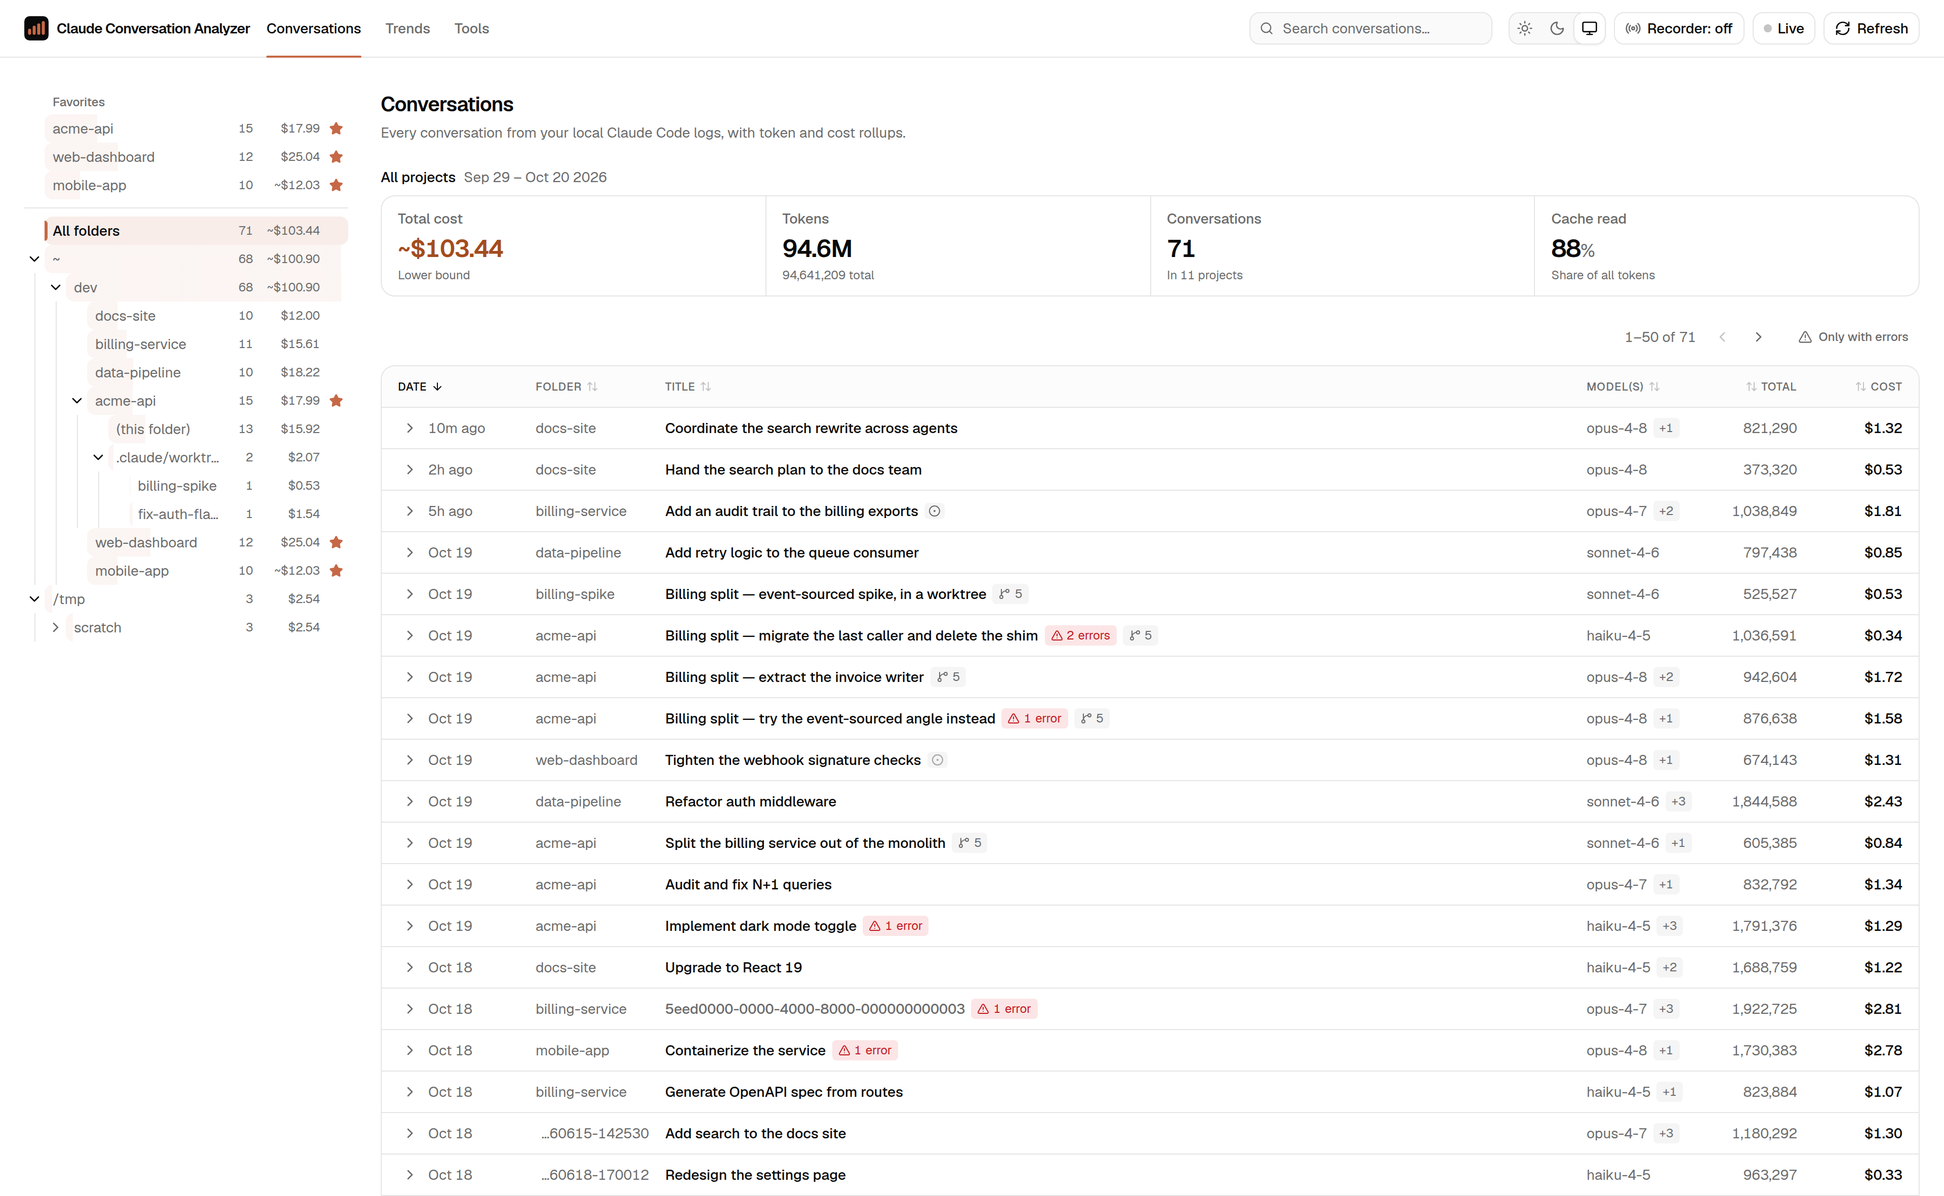
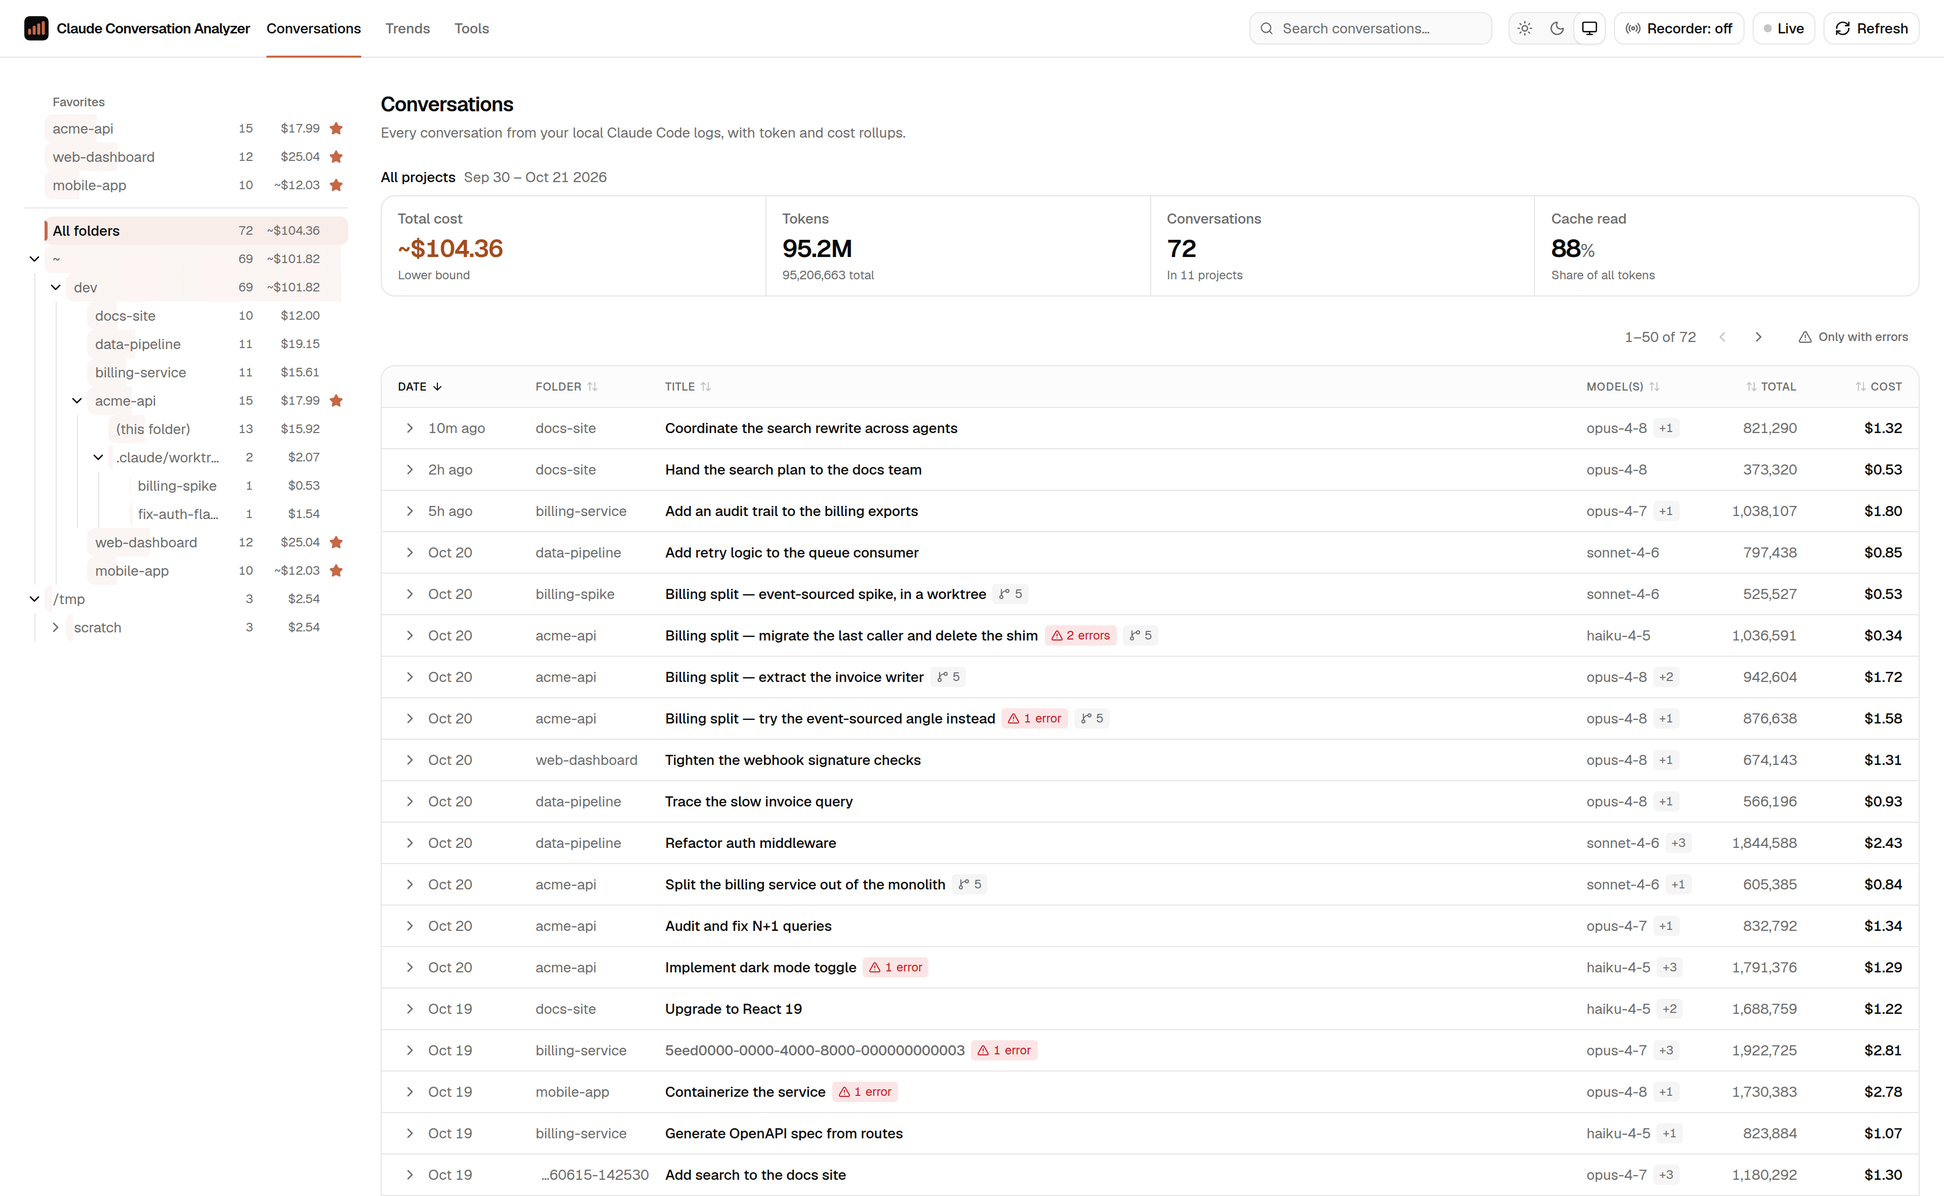
docs: the glossary, README and agent docs describe the logs as the only input (#219)

diff --git a/GLOSSARY.md b/GLOSSARY.md
@@ -1,9 +1,8 @@
 # Glossary — Claude Conversation Analyzer
 
 A local-only app that reads the Claude Code conversation logs stored on this
-machine — and, when the Recorder is used, the Recordings of what Claude Code
-actually sent the API — parses them deterministically into a SQLite database,
-and presents analysis (starting with per-conversation token usage and cost).
+machine, parses them deterministically into a SQLite database, and presents
+analysis (starting with per-conversation token usage and cost).
 
 This file is the **glossary** — the ubiquitous language for the domain. It
 contains no implementation details. Architectural decisions live in
@@ -235,14 +234,15 @@ individual Tool call**. Therefore:
 The hypothetical price of a Conversation had it run on the Claude API, computed
 from its token usage and a per-model, per-token-type price list. Costs are
 attributed per Resolved model, so Main-thread and sub-agent costs can differ
-within one Conversation. A Recorded Conversation's Cost also includes its
-Unlogged usage, which the conversation logs never show.
+within one Conversation. Claude Code's own background requests (naming the
+session, suggestions, web summaries) never appear in the logs, so Cost leaves
+them out.
 
 ### Refresh
 
-The action that re-reads the conversation logs (and Recordings) from disk and
-updates the local SQLite database, so the UI does not re-parse on every view.
-The user triggers it, or Live does when they change.
+The action that re-reads the conversation logs from disk and updates the local
+SQLite database, so the UI does not re-parse on every view. The user triggers
+it, or Live does when they change.
 
 At most one Refresh runs at a time. A click starts one, or joins the one already
 running; it outlives the page that started it, and every open page sees its
@@ -260,15 +260,15 @@ Conversation must be re-parsed.
 ### Live
 
 A mode the user switches on in the app, off by default: while it is on, the app
-watches the conversation logs and Recordings and runs a Refresh whenever they
-change, so open pages follow Conversations as they happen. Switching it on
-first starts watching, then runs a catch-up Refresh, so nothing written in
-between is missed.
+watches the conversation logs and runs a Refresh whenever they change, so open
+pages follow Conversations as they happen. Switching it on first starts
+watching, then runs a catch-up Refresh, so nothing written in between is
+missed.
 
 A Conversation is **active now** while Live is on and its newest source change
-— its log, any of its sub-agent transcripts, or its Recording — is under 2
-minutes old. It is a Live-only notion: with Live off the stored data is only as
-fresh as the last Refresh, so no Conversation is active now.
+— its log or any of its sub-agent transcripts — is under 2 minutes old. It is a
+Live-only notion: with Live off the stored data is only as fresh as the last
+Refresh, so no Conversation is active now.
 
 ### Recorder
 
@@ -279,81 +279,32 @@ running cannot reach the API. The Recorder runs on its own, independently of
 the app, which shows whether it is running and can start it.
 _Avoid_: proxy (in the UI), capture tool.
 
-### Recording
-
-What the Recorder keeps: every API request it forwarded, with its response. A
-Recording is a source in its own right, alongside the conversation logs — unlike
-the database, it cannot be rebuilt from anything else.
-_Avoid_: capture, trace.
-
 ### API request
 
-One request Claude Code sent to the Anthropic API, and its response, as the
-Recorder saw it: the system prompt, the tool definitions, every message exactly
-as sent, the response, its token usage and its timings. An API request is of
-one of three kinds: a Turn's request, which some Agent's Turn came from; a
-Failed attempt of a Turn; or a Side request. Since Claude Code 2.1.300 the
-conversation logs also record each API request an Agent sent, without its
-response; for the same request, the logs win over a Recording.
+One request Claude Code sent to the Anthropic API for an Agent's Turn, as the
+conversation logs record it since Claude Code 2.1.300: the system prompt, the
+tool definitions, every message exactly as sent, and the request parameters
+(model, effort, thinking, maximum output, cache breakpoints). An API request is
+either a Turn's request, which the Turn came from, or a Failed attempt of one.
+Conversations logged by earlier versions have none.
 _Avoid_: exchange, call (clashes with Tool call).
 
 ### What was sent
 
-What a recorded Turn's API request actually gave the model, shown on that
-Turn: the messages new since the previous API request of the same Agent (the
-system-reminders and other injected context the logs omit included), how the
-system prompt and the tool definitions changed since it, the request
-parameters and timings, and the whole system prompt and tool definitions. It
-also gives the API request **raw**: its body exactly as sent, its headers
-(credentials redacted) and its response body, as JSON. A system-prompt change
-is **volatile** when only lines that move on their own changed — the date, the
-git status, the working directory — and **real** otherwise. On a Side request
-the panel shows everything it sent, there being no previous request to compare
-against. A Turn whose API request the conversation logs record (Claude Code
-2.1.300 and later) gets What was sent from them, with no Recording — its
-messages, system prompt, tool definitions and parameters, without timings, and
-raw as its body rebuilt from the log — and the logs win when a Recording has
-the same request. A message the logs cannot rebuild is shown missing, at its
-place, and counted.
+What a Turn's API request gave the model, shown on that Turn: how the system
+prompt and the tool definitions changed since the previous API request of the
+same Agent, the messages new since it, the request parameters and when it was
+sent, and the whole request. It also gives the API request **raw**: its body as
+rebuilt from the logs, as JSON. A system-prompt change is **volatile** when
+only lines that move on their own changed — the date, the git status, the
+working directory — and **real** otherwise. A message the logs cannot rebuild
+is shown missing, at its place, and counted.
 
 ### Failed attempt
 
-An API request the API refused or dropped (overloaded, rate-limited, a server
-error, a broken connection) and that Claude Code then retried: the same request
-of the same Agent, sent again later. It belongs to the Turn whose API request
-was the retry that succeeded, which shows how many failed attempts preceded it
-and, for each, its status, its error message and the time it lost, from its
-arrival to its failure. A failed attempt counts toward Cost only if the API
-reported usage for it, which normally it does not. The conversation logs know
-failed attempts too, with neither status nor error message: an API request no
-Turn answered that the next request of the same Agent resent, which lost the
-time from its sending to that next request's; they never count toward Cost.
+An API request the API refused or dropped and that Claude Code then retried:
+the same request of the same Agent, sent again. It belongs to the Turn whose
+API request was the retry that succeeded, which shows how many failed attempts
+preceded it and the time they lost, up to the retry. The logs record neither
+its status nor its error message, and it never counts toward Cost.
 _Avoid_: retry (that is the request after it), failed request.
-
-### Side request
-
-An API request that is neither a Turn of any Agent nor a Failed attempt of one:
-Claude Code's own background
-requests, such as naming the session, probing the quota, the safety monitor or
-suggestions. Side requests never appear in the conversation logs, so their usage
-is only known for Recorded Conversations.
-
-A Side request is of one **kind**, told from what it sent: session naming, quota
-probe, safety monitor, suggestion, token count, or other (labelled by the first
-line of its system prompt).
-
-### Unlogged usage
-
-The token usage a Recording adds to a Conversation's Cost: its Side requests'
-usage, and that of the Failed attempts the API reported usage for. The
-conversation logs never show it, so an unrecorded Conversation has none. A
-Turn's own usage always comes from the logs, never from its API request.
-_Avoid_: add-on cost, side cost.
-
-### Recorded
-
-A Conversation is **recorded** when its Turns have matching API requests in a
-Recording, **partially recorded** when only some do (the Recorder was started or
-stopped mid-way), and **unrecorded** otherwise. An unrecorded Conversation is
-shown exactly as from its logs alone; recording only ever adds to it.
-_Avoid_: thread (the Recorder's old word for an Agent).

diff --git a/README.md b/README.md
@@ -6,9 +6,8 @@ per-conversation token usage and cost — broken down by project, model, skill,
 and sub-agent.
 
 **Everything stays on your machine.** The app only reads `~/.claude/projects`
-(and, if you use the optional [Recorder](#recording-what-claude-code-sent),
-its Recordings) and writes a local SQLite file (`./data/analyzer.db`); every
-path is configurable. Nothing is ever sent anywhere.
+and writes a local SQLite file (`./data/analyzer.db`); every path is
+configurable. Nothing is ever sent anywhere.
 
 > **About the cost figure:** the cost shown is always _"what these tokens would
 > cost through the public API"_. If you're on a Pro or Max subscription you
@@ -122,11 +121,11 @@ can keep browsing while it runs. When an update changes how logs are parsed,
 the app says so and asks for a Refresh.
 
 To skip the clicking, switch on **Live**, the toggle next to Refresh (off by
-default). While it is on, the app watches your logs and Recordings and refreshes
-a couple of seconds after they change, so open pages follow your conversations
-as they happen. A pulsing dot shows while it is on, and the same dot marks a
+default). While it is on, the app watches your logs and refreshes a couple of
+seconds after they change, so open pages follow your conversations as they
+happen. A pulsing dot shows while it is on, and the same dot marks a
 conversation as **active now**, in the list and on its transcript, while its log
-or Recording changed in the last 2 minutes. The choice is saved in
+changed in the last 2 minutes. The choice is saved in
 `~/.claude-convo-analyzer/settings.json`, so a server restarted with Live on
 starts watching again and catches up on what it missed.
 
@@ -144,8 +143,8 @@ value resolves against the process working directory (the repo root under
   migrated on first use.
 - `CCA_LOGS_ROOT` — the logs root that **Refresh** scans (default
   `~/.claude/projects`).
-- `CCA_RECORDINGS_ROOT` — the Recordings that **Refresh** also reads and the
-  Recorder writes (default `~/.claude-convo-analyzer/recordings`).
+- `CCA_RECORDINGS_ROOT` — where the Recorder writes its Recordings (default
+  `~/.claude-convo-analyzer/recordings`).
 - `CCA_SETTINGS_PATH` — the settings file that keeps whether **Live** is on
   and your **Favorites** (default `~/.claude-convo-analyzer/settings.json`).
   It sits outside the database, so a Refresh or a deleted database never loses
@@ -155,26 +154,28 @@ value resolves against the process working directory (the repo root under
 CCA_DB_PATH=data/demo.db CCA_LOGS_ROOT=/tmp/demo-logs pnpm dev
 ```
 
-## Recording what Claude Code sent
+## What was sent
 
 Since Claude Code 2.1.300 the logs record each request Claude Code sends, and
 every turn of such a conversation, sub-agents included, shows **What was
-sent** without the Recorder: the messages new since the previous request, the
-system-reminders Claude Code injected included, how the system prompt and
-tools changed since it, the whole request with every message, and the request
-body as the logs rebuild it. A message the logs cannot rebuild is shown
-missing and counted. A turn Claude Code had to retry shows how many failed
-attempts preceded it and the time they lost, though not why they failed.
-Where a turn was also recorded, what the logs hold wins.
+sent**, in three views: **Changes**, the messages new since the previous
+request (the system-reminders Claude Code injected included) and how the
+system prompt and tools changed since it; **Request**, the whole request by
+part; and **Raw**, the request body as the logs rebuild it, as copyable JSON.
+The request parameters sit above all three. A message the logs cannot rebuild
+is shown missing and counted. A turn Claude Code had to retry shows how many
+failed attempts preceded it and the time they lost, though not why they
+failed. Conversations logged by earlier versions of Claude Code show none of
+this.
 
-Before 2.1.300 the logs show the conversation, but not what Claude Code
-actually sent the API: the system prompt, the tool definitions, the
-system-reminders it injects. And they never show why a request failed before
-Claude Code retried it, nor its own background requests (naming the session,
-probing your quota, the safety monitor, suggestions), whose tokens are missing
-from every cost the logs alone give. The **Recorder** fills that gap: an
-optional local proxy that forwards every request to the Anthropic API unchanged
-and keeps a copy on disk.
+Claude Code's own background requests (naming the session, suggestions, web
+summaries) never appear in the logs, so no cost counts them.
+
+## The Recorder
+
+The **Recorder** is an optional local proxy that forwards every request to the
+Anthropic API unchanged and keeps a copy on disk, a Recording. The app no
+longer reads Recordings: what was sent comes from the logs.
 
 The **Recorder** item in the app bar, beside Live and Refresh, says whether it
 runs ("Recorder: on" or "Recorder: off"; hover it for the port). Its **Start**
@@ -194,19 +195,7 @@ copies for you (along with a shell alias) and `pnpm recorder` prints:
 ANTHROPIC_BASE_URL=http://127.0.0.1:4242 claude
 ```
 
-Only sessions started that way are recorded. Click **Refresh** in the app and a
-recorded conversation gains:
-
-- **What was sent** on each turn, in three views: **Changes**, the messages new
-  since the previous request (injected context included) and how the system
-  prompt and tools changed; **Request**, the whole request by part; and
-  **Raw**, its request body, response body and headers as JSON, each copyable.
-  The request parameters and timings sit above all three.
-- **Failed attempts** with their status and error: the overloaded,
-  rate-limited or dropped requests Claude Code retried before the turn
-  succeeded, why each failed, and the time each one lost.
-- **Side requests**: Claude Code's background requests, in the Transcript and
-  in the conversation's cost.
+Only sessions started that way are recorded.
 
 Stop the Recorder with **Stop** in its popover, or with Ctrl-C in its terminal;
 it lets requests in flight finish first (press Ctrl-C twice to quit at once).
@@ -231,8 +220,7 @@ Claude Code logs.
 
 The app discovers each **project** (a directory where you ran Claude Code) under
 `~/.claude/projects`, parses every session's `.jsonl` transcript, and stores a
-deterministic, deduplicated token ledger. Recordings, when present, only add to
-it: a turn's usage always comes from the logs. Cost is computed in application code
+deterministic, deduplicated token ledger. Cost is computed in application code
 from a per-model, per-token-type price list — it's a hypothetical "what these
 tokens would list for on the public API today" figure, not your actual billing.
 
@@ -281,10 +269,9 @@ approach and fixtures.
 
 For demo data, `pnpm seed` builds a self-contained seed environment in
 `data/seed/`: invented logs in `data/seed/projects/`, ingested into
-`data/seed/seed.db`, and invented Recordings of some of them in
-`data/seed/recordings/`. Each run wipes and rebuilds that directory; your real
-database, logs and Recordings are never read or written. To seed and serve the
-app on it in one step:
+`data/seed/seed.db`. Each run wipes and rebuilds that directory; your real
+database and logs are never read or written. To seed and serve the app on it in
+one step:
 
 ```bash
 pnpm dev:seed
@@ -292,19 +279,18 @@ pnpm dev:seed
 
 It prints `Seeded app: http://localhost:<port>` — the first free port from
 3001, or `PORT` when set — so several checkouts can each run their own. Refresh
-in that app re-reads only the seeded logs, `CCA_RECORDINGS_ROOT` points at
-the seeded Recordings, and `CCA_SETTINGS_PATH` at `data/seed/settings.json`, so
+in that app re-reads only the seeded logs, `CCA_RECORDINGS_ROOT` points inside
+`data/seed/`, and `CCA_SETTINGS_PATH` at `data/seed/settings.json`, so
 Live starts off with three seeded favorites, and your own settings are never
 touched.
 
 The seeded activity ends now. `pnpm seed` also takes `--now=<ISO>`, and the same
 `--now` always yields the same data, which is what screenshots want; point the
-app at that seed with the two variables above, and `CCA_RECORDINGS_ROOT` at its
-Recordings:
+app at that seed with the two variables above:
 
 ```bash
 pnpm seed --now=2026-06-22T17:00:00Z
-CCA_DB_PATH=data/seed/seed.db CCA_LOGS_ROOT=data/seed/projects CCA_RECORDINGS_ROOT=data/seed/recordings pnpm dev
+CCA_DB_PATH=data/seed/seed.db CCA_LOGS_ROOT=data/seed/projects pnpm dev
 ```
 
 ## Was this made with AI?

diff --git a/AGENTS.md b/AGENTS.md
@@ -41,12 +41,12 @@ public/         Static assets served at the root
 
 ```
 pnpm dev           Run the app (next dev) on :3000
-pnpm seed          Rebuild the fake-data seed environment in data/seed/ (seed.db + projects/ + recordings/); --now=<ISO> pins it
+pnpm seed          Rebuild the fake-data seed environment in data/seed/ (seed.db + projects/); --now=<ISO> pins it
 pnpm gen           Regenerate the typed route builders in src/generated/routes/ (next-pipe gen); run after adding, moving or removing a route
 pnpm dev:seed      Seed, then run next dev on it; prints `Seeded app: http://localhost:<port>` (first free from 3001, or $PORT)
 pnpm e2e:server    Seed, then next build with the testing API exposed and next start on it ($PORT, as dev:seed) — what pnpm e2e serves
 pnpm recorder      Run the Recorder on 127.0.0.1:$CCA_RECORDER_PORT (default 4242) until Ctrl-C, or in the background with --detach (what the app's Start runs); prints the ANTHROPIC_BASE_URL line for Claude Code. Format: docs/recording-format.md
-pnpm bench:refresh Cold Refresh of $CCA_LOGS_ROOT (default ~/.claude/projects) and $CCA_RECORDINGS_ROOT into a scratch DB; prints phase split, peak heap, longest stall. Not in check/gate/CI
+pnpm bench:refresh Cold Refresh of $CCA_LOGS_ROOT (default ~/.claude/projects) into a scratch DB; prints phase split, peak heap, longest stall. Not in check/gate/CI
 pnpm check         Format check, lint, duplication, typecheck, then the tests affected since $CHECK_BASE (default origin/main) — the inner loop
 pnpm gate          Format check, lint, duplication, typecheck, then test and build, then e2e — the full check
 pnpm format        Prettier, rewriting files in place

diff --git a/docs/codebase/app-router.md b/docs/codebase/app-router.md
@@ -13,8 +13,8 @@ In order of preference — reach for the next one only when the previous doesn't
 3. **API routes** (route handlers) for what runs alongside the main flow — typeahead, polling, client-side
    reads after the initial render. Add one only for a read no server component can do: one the reader asks
    for after the page has rendered. There are four such routes. Two are read the first time the reader
-   opens a disclosure: `GET /api/tool-call/[id]` serves a Tool call's body, and `GET /api/api-request/[id]`
-   what a recorded Turn's API request sent; the page ships only the summary and the row id, because a server
+   opens a disclosure: `GET /api/tool-call/[id]` serves a Tool call's body, and `GET /api/logged-api-request/[id]`
+   what a Turn's API request sent; the page ships only the summary and the row id, because a server
    component cannot render what nobody has opened yet. The third, `GET /api/recorder`, is polled: the app
    bar's Recorder item re-reads the Recorder's status through it while the page stays open, after its
    server part read it once for the first paint. The fourth, `GET /api/disk-usage`, is read each time the
